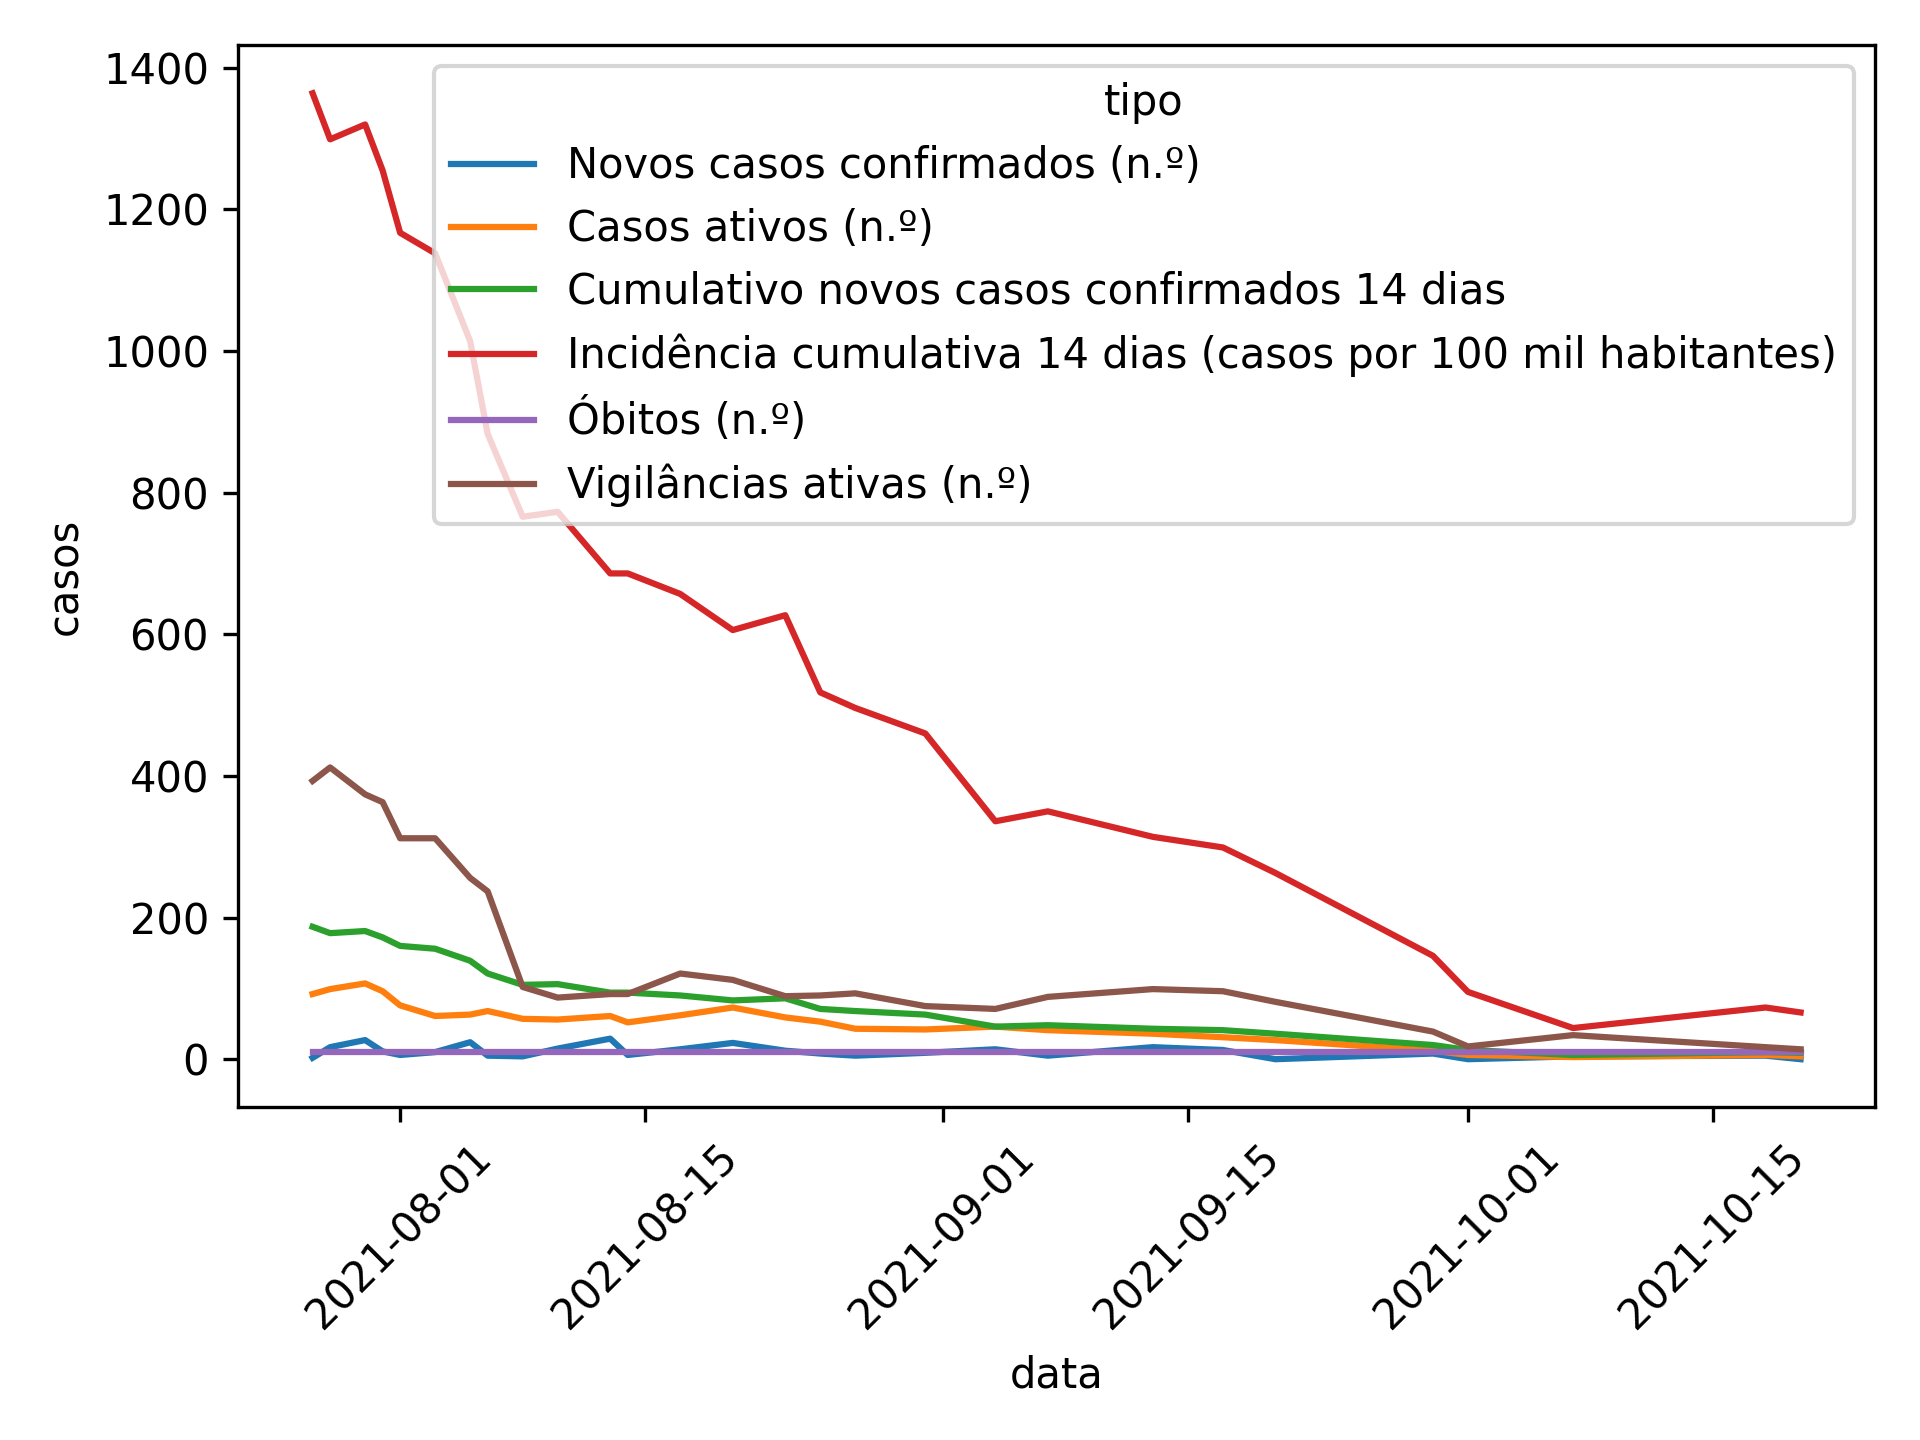
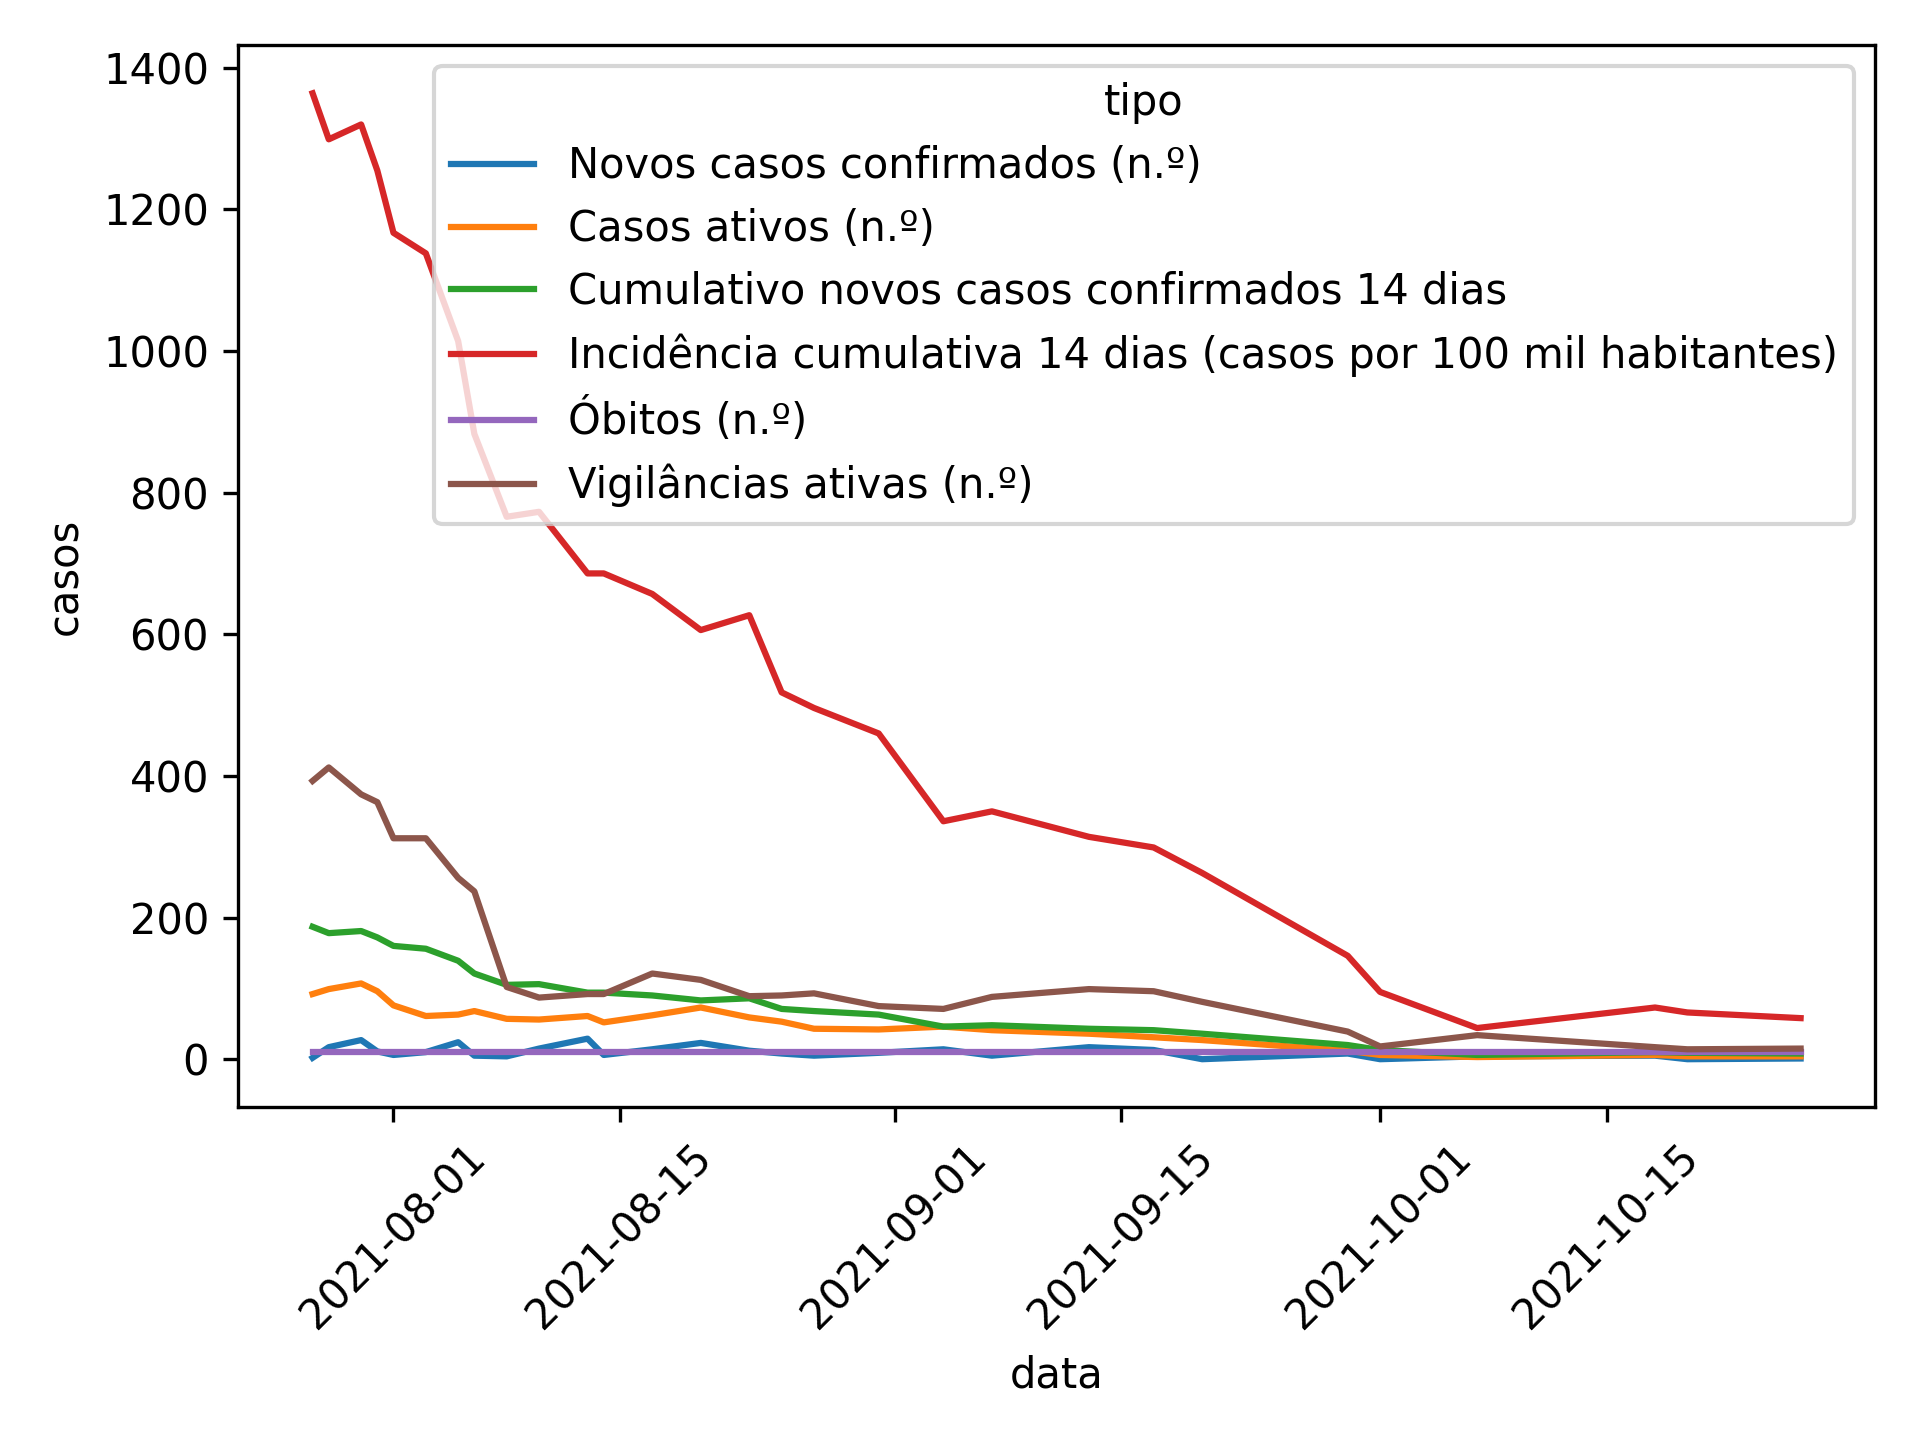
Apply automatic changes

diff --git a/README.md b/README.md
@@ -6,7 +6,6 @@
 
 | data       |   Novos casos confirmados (n.º) |   Casos ativos (n.º) |   Cumulativo novos casos confirmados 14 dias |   Incidência cumulativa 14 dias (casos por 100 mil habitantes) |   Óbitos (n.º) |   Vigilâncias ativas (n.º) |
 |:-----------|--------------------------------:|---------------------:|---------------------------------------------:|---------------------------------------------------------------:|---------------:|---------------------------:|
-| 20-08-2021 |                              23 |                   73 |                                           83 |                                                            606 |             10 |                        112 |
 | 23-08-2021 |                              12 |                   59 |                                           86 |                                                            627 |             10 |                         89 |
 | 25-08-2021 |                               8 |                   53 |                                           71 |                                                            518 |             10 |                         90 |
 | 27-08-2021 |                               5 |                   43 |                                           68 |                                                            496 |             10 |                         93 |
@@ -21,3 +20,4 @@
 | 07-10-2021 |                               4 |                    3 |                                            6 |                                                             44 |             10 |                         34 |
 | 18-10-2021 |                               5 |                    6 |                                           10 |                                                             73 |             10 |                         17 |
 | 20-10-2021 |                               0 |                    4 |                                            9 |                                                             66 |             10 |                         14 |
+| 27-10-2021 |                               1 |                    4 |                                            8 |                                                             58 |             10 |                         15 |
